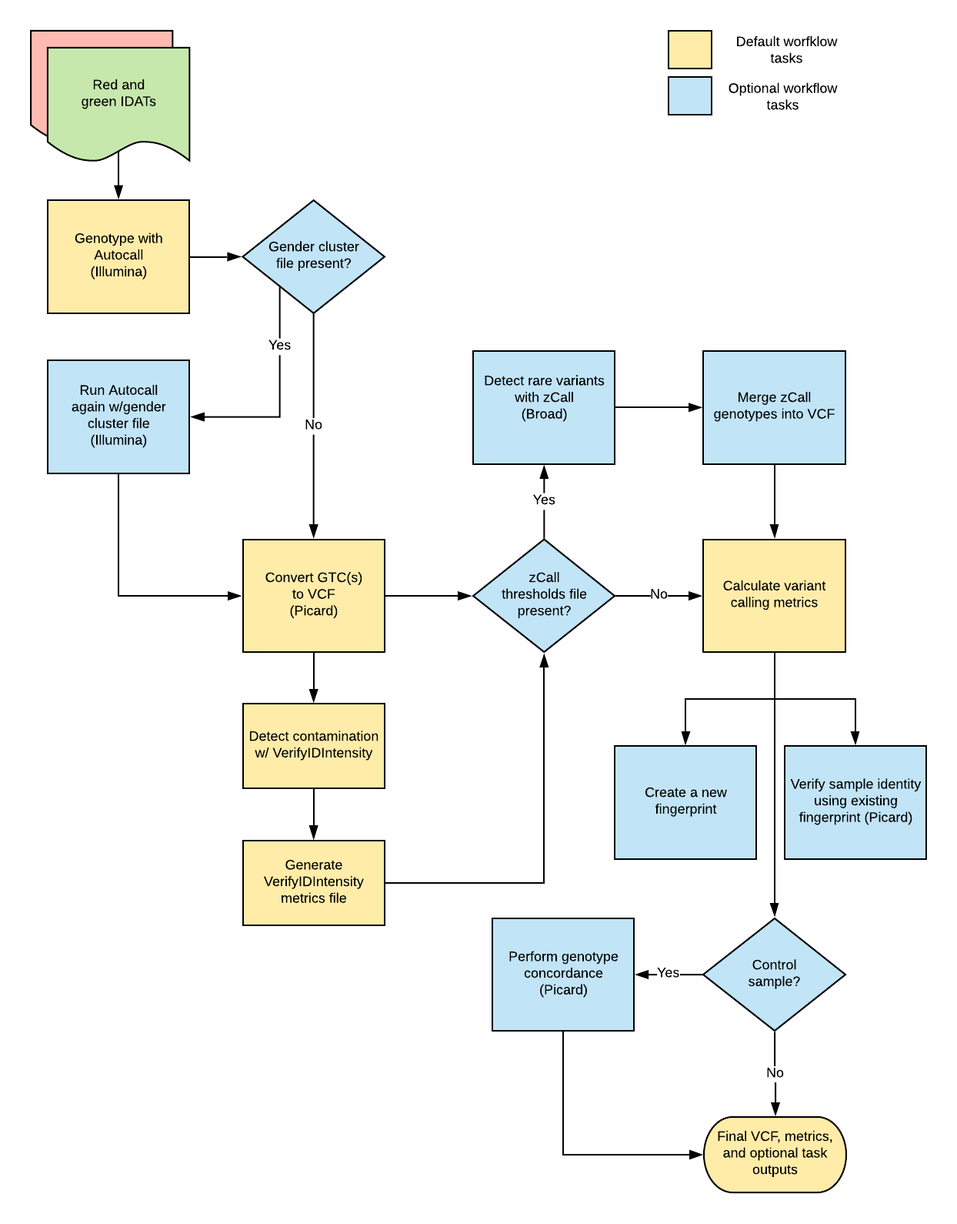
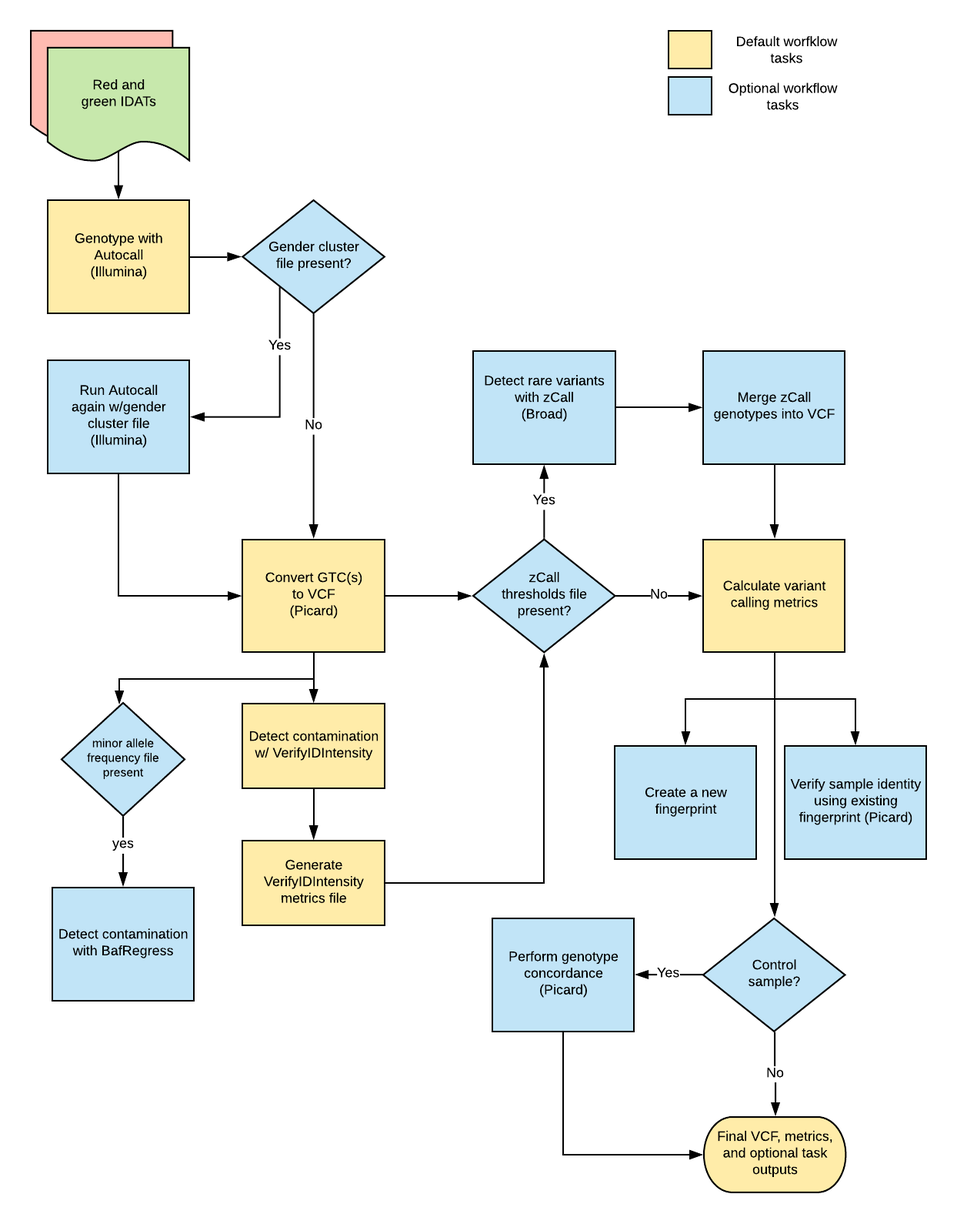
Updated Illumina Genotyping Arrays Overview and diagram

Changed region(s): [[0.0305, 0.5547, 0.2138, 0.8321]]

diff --git a/website/docs/Pipelines/Illumina_Genotyping_Arrays_Pipeline/IlluminaGenotypingArray.documentation.md b/website/docs/Pipelines/Illumina_Genotyping_Arrays_Pipeline/IlluminaGenotypingArray.documentation.md
@@ -6,86 +6,97 @@ sidebar_position: 1
 
 | Pipeline Version | Date Updated | Documentation Author | Questions or Feedback |
 | :----: | :---: | :----: | :--------------: |
-| [Version 1.11.0](https://github.com/broadinstitute/warp/releases) | May 1, 2021 | [Elizabeth Kiernan](mailto:ekiernan@broadinstitute.org) | Please file GitHub issues in warp or contact [Kylee Degatano](mailto:kdegatano@broadinstitute.org) |
+| [Version 1.11.6](https://github.com/broadinstitute/warp/releases) | October, 2021 | [Elizabeth Kiernan](mailto:ekiernan@broadinstitute.org) | Please file GitHub issues in warp or contact [Kylee Degatano](mailto:kdegatano@broadinstitute.org) |
 
 ![The Illumina Genotyping Array Pipeline](./IlluminaGenotyping.png)
 
 
-## Introduction to the Illumina Genotyping Array Pipeline
+## Introduction to the Illumina Genotyping Array pipeline
 
-The Illumina Genotyping Array Pipeline was developed by the Broad DSDE Pipelines team to process Illumina genotyping array data in the form of IDAT files. Overall, the pipeline performs gender-specific genotyping, sample contamination detection, and summary metric collection. It optionally performs rare variant calling and genotype concordance, creates a fingerprint VCF that can be used for sample verification in parallel processes, and evaluates an existing sample fingerprint to confirm sample identity. The pipeline outputs annotated [VCFs](./Illumina_genotyping_array_spec), index files, and summary metrics.
+The Illumina Genotyping Array pipeline was developed by the Broad Pipelines team to process Illumina genotyping array data in the form of IDAT files. Overall, the pipeline performs gender-specific genotyping, sample contamination detection, and summary metric collection. It optionally performs rare variant calling and genotype concordance, creates a fingerprint VCF that can be used for sample verification in parallel processes, and evaluates an existing sample fingerprint to confirm sample identity. The pipeline outputs annotated [VCFs](./Illumina_genotyping_array_spec), index files, and summary metrics.
 
 ## Set-up
 
-### Workflow Installation and Requirements
+### Workflow installation and requirements
 
-The Illumina Genotyping Array workflow is written in the Workflow Description Language [WDL](https://openwdl.org/) and can be downloaded by cloning the GitHub repository [warp](https://github.com/broadinstitute/warp/tree/develop/pipelines/broad/genotyping/illumina). The workflow can be deployed using [Cromwell](https://cromwell.readthedocs.io/en/develop/), a GA4GH compliant, flexible workflow management system that supports multiple computing platforms. For the latest workflow version and release notes, please see the Illumina Genotyping Array changelog [IlluminaGenotypingArray.changelog.md](https://github.com/broadinstitute/warp/blob/develop/pipelines/broad/genotyping/illumina/IlluminaGenotypingArray.changelog.md). For beta updates, you can also view release notes tagged with "IlluminaGenotypingArray_develop" [here](https://github.com/broadinstitute/warp/releases).
+The Illumina Genotyping Array workflow is written in the Workflow Description Language [WDL](https://openwdl.org/) and can be deployed using [Cromwell](https://cromwell.readthedocs.io/en/develop/), a GA4GH compliant, flexible workflow management system that supports multiple computing platforms. 
+
+For the latest workflow version and release notes, please see the Illumina Genotyping Array changelog [IlluminaGenotypingArray.changelog.md](https://github.com/broadinstitute/warp/blob/develop/pipelines/broad/genotyping/illumina/IlluminaGenotypingArray.changelog.md). 
+
+The latest release of the workflow, example data, and dependencies are available from the WARP [releases page](https://github.com/broadinstitute/warp/releases). To discover and search releases, use the WARP command-line tool [Wreleaser](https://github.com/broadinstitute/warp/tree/develop/wreleaser).
+
 
 ### Inputs
 
-The workflow requires that each input is specified in a JSON file. All sample and reference files should be stored in cloud storage, such as a Google Bucket, and the path to the file location should be specified in the JSON. Some tasks, such as rare variant calling, fingerprinting, and genotype concordance, are optional. An example of all workflow inputs (both required and optional) can be found in the [example.json](https://github.com/broadinstitute/warp/blob/develop/pipelines/broad/genotyping/illumina/example.json) file. The tables below describe the required inputs and their formats. When applicable, the inputs for the workflow tasks listed below are marked as required or optional.
+The workflow requires that each input is specified in a JSON file. All sample and reference files should be stored in cloud storage, such as a Google Bucket, and the path to the file location should be specified in the JSON. 
 
-#### Sample Data Inputs
+Some tasks, such as rare variant calling, fingerprinting, and genotype concordance, are optional. 
+
+An example of all workflow inputs (both required and optional) can be found in the [example.json](https://github.com/broadinstitute/warp/blob/develop/pipelines/broad/genotyping/illumina/example.json) file. The tables below describe the workflow inputs, their formats, and whether they are required or optional. 
+
+#### Sample data inputs
 
 | Input name | Description | Input format |
 | --- | --- | --- |
-| chip_well_barcode | Unique identifier of the array chip section on which sample was run. Can be a concatenation of chip barcode and sample coordinates (Ex: 7991775143_R01C01). This is a prefix for output files | String |
-| sample_alias | Name of sample run on barcode-specific chip segment | String |
-| red_idat_cloud_path | Cloud path to the red IDAT file | String |
-| green_idat_cloud_path | Cloud path to the green IDAT file | String |
-| reported_gender | Reported sample sex/gender | String |
+| chip_well_barcode | Unique identifier of the array chip section on which sample was run. Can be a concatenation of chip barcode and sample coordinates (Ex: 7991775143_R01C01). This is a prefix for output files. | String |
+| sample_alias | Name of sample run on barcode-specific chip segment. | String |
+| red_idat_cloud_path | Cloud path to the red IDAT file. | String |
+| green_idat_cloud_path | Cloud path to the green IDAT file. | String |
+| reported_gender | Reported sample sex/gender. | String |
 
-#### Chip Metadata Inputs
-| Input name | Description | Required or Optional | Input format |
+#### Chip metadata inputs
+| Input name | Description | Required or optional | Input format |
 | --- | --- | --- | --- |
-| bead_pool_manifest_file | Cloud path to the Illumina array-specific bead pool manifest (bpm file) | Required | String |
-| extended_chip_manifest_file | Cloud path to an [extended CSV-formatted Illumina array-specific chip manifest](https://gatk.broadinstitute.org/hc/en-us/articles/360037431851-GtcToVcf-Picard-#--EXTENDED_ILLUMINA_MANIFEST) | Required | String |
-| cluster_file | Cloud path to the Illumina array-specific cluster EGT file | Required | String |
-| gender_cluster_file | Cloud path to the Illumina array-specific gender cluster EGT file | Optional | String |
-| zcall_thresholds_file | Cloud path to a thresholds file to be used with the rare variant calling tool [zCall](https://www.ncbi.nlm.nih.gov/pmc/articles/PMC3463112/) | Optional | String |
+| bead_pool_manifest_file | Cloud path to the Illumina array-specific bead pool manifest (bpm file). | Required | String |
+| chip_type | Hardcoded string used to name output files from the BpmToNormalizationManifestCsv task; uses the file basename of the bead_pool_manifest file and adds “.bpm” to the filename. | Required | String |
+| extended_chip_manifest_file | Cloud path to an [extended CSV-formatted Illumina array-specific chip manifest](https://gatk.broadinstitute.org/hc/en-us/articles/360037431851-GtcToVcf-Picard-#--EXTENDED_ILLUMINA_MANIFEST). | Required | String |
+| cluster_file | Cloud path to the Illumina array-specific cluster EGT file. | Required | String |
+| gender_cluster_file | Cloud path to the Illumina array-specific gender cluster EGT file. | Optional | String |
+| zcall_thresholds_file | Cloud path to a thresholds file to be used with the rare variant calling tool [zCall](https://www.ncbi.nlm.nih.gov/pmc/articles/PMC3463112/). | Optional | String |
 
 
-#### Reference Data Inputs
-| Input name | Description | Required or Optional | Input format |
+#### Reference data inputs
+| Input name | Description | Required or optional | Input format |
 | --- | --- | --- | --- |
-| ref_fasta | Cloud path to the reference FASTA (only validated for [Hg19](https://storage.cloud.google.com/gcp-public-data--broad-references/hg19/v0/Homo_sapiens_assembly19.fasta)) | Required | String |
-| ref_fasta_index | Cloud path to the reference FASTA index file | Required | String |
-| ref_dict | Cloud path to the reference FASTA dictionary file | Required | String |
-| dbSNP_vcf | Cloud path to the dbSNP VCF, used for metrics collection | Required | String |
-| dbSNP_vcf_index | Cloud path of the dbSNP VCF index file | Required | String |
+| ref_fasta | Cloud path to the reference FASTA (only validated for [Hg19](https://storage.cloud.google.com/gcp-public-data--broad-references/hg19/v0/Homo_sapiens_assembly19.fasta)). | Required | String |
+| ref_fasta_index | Cloud path to the reference FASTA index file. | Required | String |
+| ref_dict | Cloud path to the reference FASTA dictionary file. | Required | String |
+| dbSNP_vcf | Cloud path to the dbSNP VCF, used for metrics collection. | Required | String |
+| dbSNP_vcf_index | Cloud path of the dbSNP VCF index file. | Required | String |
 
 
-#### Fingerprinting Inputs
+#### Fingerprinting inputs
 
-| Input name | Description | Required or Optional | Input format |
+| Input name | Description | Required or optional | Input format |
 | --- | --- | --- | --- |
-| variant_rsids_file | Cloud path to file containing the rsids list for fingerprint sites (used for creating a new fingerprint VCF) | Optional | String |
-| fingerprint_genotypes_vcf_file | Cloud path to a 'fingerprint' VCF (containing a set of genotypes - typically generated on an orthogonal genotyping platform). Used to confirm sample identity | Optional | String |
-| fingerprint_genotypes_vcf_index_file | Cloud path to 'fingerprint' VCF index file. Used to confirm sample identity | Optional | String |
-| haplotype_database_file | Cloud path to a file containing the haplotype block information for the 'fingerprint' VCF sites. Used to confirm sample identity | Optional | String |
+| variant_rsids_file | Cloud path to file containing the rsids list for fingerprint sites (used for creating a new fingerprint VCF). | Optional | String |
+| fingerprint_genotypes_vcf_file | Cloud path to a 'fingerprint' VCF (containing a set of genotypes - typically generated on an orthogonal genotyping platform). Used to confirm sample identity. | Optional | String |
+| fingerprint_genotypes_vcf_index_file | Cloud path to 'fingerprint' VCF index file. Used to confirm sample identity. | Optional | String |
+| haplotype_database_file | Cloud path to a file containing the haplotype block information for the 'fingerprint' VCF sites. Used to confirm sample identity. | Optional | String |
 
 
 
-#### Genotype Concordance Inputs
-| Input name | Description | Required or Optional | Input format |
+#### Genotype concordance inputs
+| Input name | Description | Required or optional | Input format |
 | --- | --- | --- | --- |
-| control_sample_vcf_file | Cloud path to a VCF containing the genotypes from a control sample | Optional | String |
-| control_sample_vcf_index_file | Cloud path to the control sample VCF index file | Optional | String |
-| control_sample_intervals_file | Cloud path to the interval list for the control sample VCF | Optional | String |
-| control_sample_name | Name of the control sample listed in the control_sample_vcf_file | Optional | String |
-| genotype_concordance_threshold | Minimal numeric value for sample to have a passing genotype concordance | Optional | Value |
+| control_sample_vcf_file | Cloud path to a VCF containing the genotypes from a control sample. | Optional | String |
+| control_sample_vcf_index_file | Cloud path to the control sample VCF index file. | Optional | String |
+| control_sample_intervals_file | Cloud path to the interval list for the control sample VCF. | Optional | String |
+| control_sample_name | Name of the control sample listed in the control_sample_vcf_file. | Optional | String |
+| genotype_concordance_threshold | Minimal numeric value for sample to have a passing genotype concordance. Default is hardcoded in the workflow to 0.95. | Optional | Value |
 
-#### Additional Inputs
+#### Additional inputs
 
-| Input name | Description | Required or Optional | Input format |
+| Input name | Description | Required or optional | Input format |
 | --- | --- | --- | --- |
-| call_rate_threshold | Minimal numeric value for a sample to have a passing call rate | Required | Value |
-| minor_allele_frequency_file | Cloud path to a chip-specific text file containing locus-id to minor allele frequency | Optional | String |
-| contamination_controls_vcf | Cloud path to a VCF of samples run on this chip type to be used to supplement contamination calling | Optional | String |
-| subsampled_metrics_interval_list | Cloud path to a file containing a subset of sites for which the workflow generate metrics and outputs a VCF | Optional | String |
-| disk_size | Default disk (in GiB) for this workflow's cloud VMs | Required | Value |
-| premptible_tries | Number of times a task may be preempted by GCE before it is submitted to a non-preemptible VM | Required | Value |
-| analysis_version_number | Numeric value used to track number of pipeline runs on chip_well_barcode | Required | Value |
+| autocall_version | The version of autocall used for the autocall task. This is hardcoded to “3.0.0”. | Required | String |
+| call_rate_threshold | Minimal numeric value for a sample to have a passing call rate. | Required | Value |
+| minor_allele_frequency_file | Cloud path to a chip-specific text file containing locus-id to minor allele frequency. | Optional | String |
+| contamination_controls_vcf | Cloud path to a VCF of samples run on this chip type to be used to supplement contamination calling. | Optional | String |
+| subsampled_metrics_interval_list | Cloud path to a file containing a subset of sites for which the workflow generates metrics and outputs a VCF. | Optional | String |
+| disk_size | Default disk (in GiB) for this workflow's cloud VMs. | Required | Value |
+| premptible_tries | Number of times a task may be preempted by GCE before it is submitted to a non-preemptible VM. | Required | Value |
+| analysis_version_number | Numeric value used to track the number of pipeline runs on the chip_well_barcode. | Required | Value |
 
 
 ## Workflow Tools and Tasks
@@ -94,7 +105,7 @@ The Illumina Genotyping Array workflow imports a series of tasks from the [Illum
 
 ### Tools
 
-The following table provides a summary of the tasks and tools called by the Illumina Array Genotyping workflow. Note that sometimes a task and tool have the same name. The task refers to the task listed in the [IlluminaGenotypingArrayTasks.wdl](https://github.com/broadinstitute/master/blob/develop/tasks/broad/IlluminaGenotypingArrayTasks.wdl).
+The following table provides a summary of the WDL tasks and software tools called by the Illumina Array Genotyping workflow. Note that sometimes a task and tool have the same name. The task refers to the task listed in the [IlluminaGenotypingArrayTasks.wdl](https://github.com/broadinstitute/master/blob/develop/tasks/broad/IlluminaGenotypingArrayTasks.wdl).
 
 | Task | Tool | Source |
 | --- | --- | --- |
@@ -115,7 +126,7 @@ The following table provides a summary of the tasks and tools called by the Illu
 | GenotypeConcordance | [GenotypeConcordance](https://gatk.broadinstitute.org/hc/en-us/articles/360036348932) | Picard |
 
 
-### Task Summary
+### Task summary
 
 Overall, the workflow imports the ["IlluminaGenotypingArrayTasks.wdl"](https://github.com/broadinstitute/warp/blob/develop/tasks/broad/IlluminaGenotypingArrayTasks.wdl) task to:
 
@@ -127,7 +138,7 @@ Overall, the workflow imports the ["IlluminaGenotypingArrayTasks.wdl"](https://g
 6. Evaluate an existing fingerprint (optional)
 7. Evaluate genotype concordance with a control sample (optional)
 
-#### 1. Genotype Calling
+#### 1. Genotype calling
 
 Illumina BeadChip Genotyping technology demarcates small-nucleotide variants (and polymorphisms- SNPs) present on an individual's alleles by labeling them with red and green fluorescent signals. These signals are quantified and stored in red and green IDAT files, which the Illumina Genotyping Array workflow can use to call genotypes. To do this, the workflow requires the Illumina array-specific chip well barcode, an Illumina bead pool manifest file containing a list of all SNPs on the BeadChip, and an Illumina cluster file containing the fluorescent signal intensity cut-offs for a given genotype. These are used as inputs for the workflow's Autocall task, which executes the [iaap- gencall tool](https://support.illumina.com/downloads/iaap-genotyping-cli.html), a command-line implementation of the Illumina genotyping software GenCall. This tool normalizes each SNP's red and green fluorescent signals and then clusters each SNP into one of the three genotype possibilities (i.e. homozygous A, homozygous B, or heterozygous- A/B). The overall task generates a genotype call file (GTC) as output. If the GTC file is empty, the workflow will end.
 
@@ -137,21 +148,21 @@ If a gender_cluster_file is listed in the input JSON, the Illumina Genotyping wo
 
 After genotyping, the workflow calls the GtcToVcf task, which runs the Picard tool [GtcToVcf](https://software.broadinstitute.org/gatk/documentation/tooldocs/current/picard_arrays_GtcToVcf.php) to convert the GTC into a VCF.
 
-#### 2. Contamination Detection
+#### 2. Contamination detection
 
 Intra-species DNA contamination is a common problem for genotyping samples.
 
-The Illumina Array workflow uses two tools to detect contamination.  These are BafRegress and VerifyIDIntensity.  The use of VerifyIDIntensity is deprecated as it can overestimate estimated contamination when used in single-sample mode (as it is run typically)
+The Illumina Array workflow historically uses two tools to detect contamination: BafRegress and VerifyIDIntensity. However, the use of VerifyIDIntensity is deprecated as it can overestimate estimated contamination when used in single-sample mode (as it is run typically)
 
-[BafRegress](https://genome.sph.umich.edu/wiki/BAFRegress) is a software that detects and estimates sample contamination using B allele frequency data from Illumina genotyping arrays using a regression model.  It requires a file formatted as an Illumina Final Report.  The workflow takes care of this in the BafRegress task (which contains functionality to both create the Illumina Final Report from the VCF generated by GtcToVcf and then run the BafRegress tool itself.  The output of a BafRegress task is a text file containing the estimated contamination along with associated metrics.
+[BafRegress](https://genome.sph.umich.edu/wiki/BAFRegress) software uses a regression model to detect and estimate sample contamination from the Illumina Genotyping Arrays B allele frequency data. It requires a file formatted as an Illumina Final Report. The software is implemented in the workflow’s BafRegress task which first creates the Illumina Final Report from the VCF generated by GtcToVcf and then runs the BafRegress tool. The output of the BafRegress task is a text file containing the estimated contamination along with associated metrics.
 
 [VerifyIDIntensity](https://www.ncbi.nlm.nih.gov/pmc/articles/PMC3487130/) requires an 'adpc.bin' file (a binary file containing array intensity data that can be used with Illumina software) as input. The workflow first calls the [VcfToAdpc](https://gatk.broadinstitute.org/hc/en-us/articles/360036484712) task to convert the VCF output from  genotype calling into an 'adpc.bin' file.  Next, the [VerifyIDIntensity](https://www.ncbi.nlm.nih.gov/pmc/articles/PMC3487130/) task uses this input file to measure contamination. The [CreateVerifyIDIntensityContaminationMetricsFile](https://gatk.broadinstitute.org/hc/en-us/articles/360047217911) task then converts the VerifyIDIntensity output into a Picard-standard metrics file (chip_well_barcode.verifyidintensity_metrics), suitable for uploading to a metrics database.
 
-#### 3. Rare Variant Calling (Optional)
+#### 3. Rare variant calling (optional)
 
 After running default genotype processing with Autocall, the Illumina Genotyping Array workflow optionally uses the [zCall](https://www.ncbi.nlm.nih.gov/pmc/articles/PMC3463112/) task to improve calls on rare variants. To run this task, the workflow requires a zCall threshold file. If the workflow identifies the file, it will output a PLINK .ped and .map file. The [MergePedIntoVcf](https://gatk.broadinstitute.org/hc/en-us/articles/360037592091) task then merges these outputs into the VCF generated during genotype calling.
 
-#### 4. Metric Collection
+#### 4. Metric collection
 
 Quality metrics can be assessed using the genotyping output VCF (from the GtctoVcf task) or alternatively, a subset of the VCF. The CollectArraysVariantCallingMetrics task calls the Picard tool [CollectArraysVariantCallingMetrics](https://gatk.broadinstitute.org/hc/en-us/articles/360037593871) to generate these metrics.
 
@@ -159,71 +170,76 @@ Quality metrics can be assessed using the genotyping output VCF (from the GtctoV
 If an input interval list is provided (the subsampled_metrics_interval_list file in the sample JSON), the workflow will run the optional task SubsetArrayVCF which uses the GATK tool [SelectVariants](https://gatk.broadinstitute.org/hc/en-us/articles/360036362532) to select variants within the specified interval. The overall workflow will then run the CollectArraysVariantCallingMetrics to generate metrics.
 :::
 
-#### 5. Creating a New Fingerprint Output (Optional)
+#### 5. Creating a new fingerprint output (optional)
 
 DNA fingerprinting helps maintain sample identity and avoid sample swaps. The Illumina Genotyping Array workflow can optionally create a new fingerprint VCF output that can be used to verify sample identity if the sample is used for additional applications (downstream sequencing, etc.). To do this, the SelectFingerprintVariants task uses a reference SNP identifier file (rsid) to run the GATK tool [SelectVariants](https://gatk.broadinstitute.org/hc/en-us/articles/360036362532). This tool selects variants in the genotyping output VCF based on the variants present in the rsids file. The task then outputs a new subsetted fingerprint VCF and index file.
 
-#### 6. Evaluating an Existing Fingerprint (Optional)
+#### 6. Evaluating an existing fingerprint (optional)
 
 If the genotyping sample already has a corresponding fingerprint VCF file, the workflow can also optionally check the existing fingerprint to confirm sample identity. It uses the CheckFingerPrints task to calculate genotype concordance between the workflow’s genotyping output VCF (final_output_vcf) and the known genotype specified in a fingerprint_genotypes_vcf_file. The workflow returns a boolean for if the sample genotype failed concordance, as well as a Logarithm of Odds (LOD) score for concordance.
 
-#### 7. Genotype Concordance (Optional)
+#### 7. Genotype concordance (optional)
 
 If control inputs (VCF, index, and sample_name string) are provided, the workflow can examine genotype concordance. First, the VcfToIntervalList task uses the Picard tool [VcfToIntervalList](https://gatk.broadinstitute.org/hc/en-us/articles/360036897672) to prepare an interval list from the genotype calling output VCF (produced with the [above GtcToVCF task](#1-genotype-calling). Next, the SelectVariantsForGenotypeConcordance task runs the GATK tool [SelectVariants](https://gatk.broadinstitute.org/hc/en-us/articles/360036362532) to exclude filtered sites from the VCF that will be used for GenotypeConcordance. Lastly, the GenotypeConcordance task uses the Picard tool [GenotypeConcordance](https://gatk.broadinstitute.org/hc/en-us/articles/360036348932) to calculate genotype concordance between the workflow’s output VCF and the control VCF.
 
 
-### Workflow Outputs
+### Workflow outputs
 
 The tables below summarize all of the workflow's output according to the task. Outputs from optional tasks are marked as optional. If the workflow output is written to a file, the file format is listed. Otherwise, the file format is listed as N/A. Note that file outputs are named with the chip_well_barcode prefix.
 
 For more information on the VCF output, see the pipeline's [VCF Overview](./Illumina_genotyping_array_spec).
 
-#### Genotype Calling and Metric Outputs
+#### Genotype calling and metric outputs
 
-| Output name | Description | Required or Optional | Output file format |
+| Output name | Description | Required or optional | Output file format |
 | --- | --- | --- | --- |
-| <chip_well_barcode>.vcf.gz | VCF generated by the pipeline | Required | Compressed VCF (vcf.gz) |
-| <chip_well_barcode>.vcf.gz.tbi | Index file of the VCF generated by the pipeline | Required | tabix index (vcf.gz.tbi) |
-| <chip_well_barcode>.gtc | GTC file generated by Autocall | Required | GTC |
-| <chip_well_barcode>.bafregress_metrics | Text output file generated by BafRegress | Optional | txt |
-| <chip_well_barcode>.verifyidintensity_metrics | File containing metrics generated by VerifyIDIntensity | Required | txt |
-| <chip_well_barcode>.arrays_variant_calling_detail_metrics | Detailed metrics file for the output VCF generated by CollectArraysVariantCallingMetrics.detail_metrics | Required | txt |
-| <chip_well_barcode>.arrays_variant_calling_summary_metrics | Summary metrics file for the output VCF as generated by CollectArraysVariantCallingMetrics | Required | txt |
-| <chip_well_barcode>.arrays_control_code_summary_metrics | Control code metrics file for the output VCF as generated by CollectArraysVariantCallingMetrics | Required | txt |
-| <chip_well_barcode_subset>.arrays_variant_calling_detail_metrics | Detailed metrics file for the subsetted VCF as generated by CollectArraysVariantCallingMetrics| Optional | txt |
-| <chip_well_barcode_subset>.arrays_subset_variant_calling_summary_metrics | Summary metrics file for the subsetted VCF as generated by CollectArraysVariantCallingMetrics | Optional | txt |
-| <chip_well_barcode_subset>.arrays_subset_variant_calling_control_metrics | Control code metrics file for the subsetted VCF as generated by CollectArraysVariantCallingMetrics | Optional | txt |
+| chip_well_barcode_output | String that matches the chip_well_barcode input variable. | Required | String |
+| <chip_well_barcode>.vcf.gz | VCF generated by the pipeline. | Required | Compressed VCF (vcf.gz) |
+| <chip_well_barcode>.vcf.gz.tbi | Index file of the VCF generated by the pipeline. | Required | tabix index (vcf.gz.tbi) |
+| <chip_well_barcode>.gtc | GTC file generated by Autocall. | Required | GTC |
+| <chip_well_barcode>.bafregress_metrics | Text output file generated by BafRegress. | Optional | TXT |
+| <chip_well_barcode>.verifyidintensity_metrics | File containing metrics generated by VerifyIDIntensity. | Required | TXT |
+| <chip_well_barcode>.arrays_variant_calling_detail_metrics | Detailed metrics file for the output VCF generated by CollectArraysVariantCallingMetrics.detail_metrics. | Required | TXT |
+| <chip_well_barcode>.arrays_variant_calling_summary_metrics | Summary metrics file for the output VCF as generated by CollectArraysVariantCallingMetrics. | Required | TXT |
+| <chip_well_barcode>.arrays_control_code_summary_metrics | Control code metrics file for the output VCF as generated by CollectArraysVariantCallingMetrics. | Required | TXT |
+| <chip_well_barcode_subset>.arrays_variant_calling_detail_metrics | Detailed metrics file for the subsetted VCF as generated by CollectArraysVariantCallingMetrics. | Optional | TXT |
+| <chip_well_barcode_subset>.arrays_subset_variant_calling_summary_metrics | Summary metrics file for the subsetted VCF as generated by CollectArraysVariantCallingMetrics. | Optional | TXT |
+| <chip_well_barcode_subset>.arrays_subset_variant_calling_control_metrics | Control code metrics file for the subsetted VCF as generated by CollectArraysVariantCallingMetrics. | Optional | TXT |
+| analysis_version_number_output | Numeric value used to track the number of pipeline runs on the chip_well_barcode; same value as the analysis_version_number input. | Required | Value |
+| <chip_well_barcode>.results.txt | Bafregress results file. | Optional |TXT | 
+ 
 
 
-#### Fingerprinting Outputs
+#### Fingerprinting outputs
 
-| Output name | Description | Required or Optional | Output file format |
+| Output name | Description | Required or optional | Output file format |
 | --- | --- | --- | --- |
-| <chip_well_barcode>.fingerprint.vcf.gz | VCF containing genotypes selected from the output_vcf at certain designated sites | Optional | Compressed VCF (vcf.gz) |
-| <chip_well_barcode>.fingerprint.vcf.gz.tbi | Index file of the output_fingerprint_vcf | Optional | tabix index (vcf.gz.tbi) |
-| check_fingerprint_lod | LOD score as calculated by CheckFingerprint between the pipeline output VCF and the optionally specified input fingerprint VCF | Optional | N/A |
-| <chip_well_barcode>.fingerprinting_summary_metrics | Summary metrics as calculated by CheckFingerprint between the pipeline output VCF and the optionally specified input fingerprint VCF | Optional | txt |
-| <chip_well_barcode>.fingerprinting_detail_metrics | Detail metrics as calculated by CheckFingerprint between the pipeline output VCF and the optionally specified input fingerprint VCF | Optional | txt |
+| <chip_well_barcode>.fingerprint.vcf.gz | VCF containing genotypes selected from the output_vcf at certain designated sites. | Optional | Compressed VCF (vcf.gz) |
+| <chip_well_barcode>.fingerprint.vcf.gz.tbi | Index file of the output_fingerprint_vcf. | Optional | tabix index (vcf.gz.tbi) |
+| check_fingerprint_lod | LOD score as calculated by CheckFingerprint between the pipeline output VCF and the optionally specified input fingerprint VCF. | Optional | N/A |
+| <chip_well_barcode>.fingerprinting_summary_metrics | Summary metrics as calculated by CheckFingerprint between the pipeline output VCF and the optionally specified input fingerprint VCF. | Optional | TXT |
+| <chip_well_barcode>.fingerprinting_detail_metrics | Detail metrics as calculated by CheckFingerprint between the pipeline output VCF and the optionally specified input fingerprint VCF. | Optional | TXT |
 
-#### Genotype Concordance Outputs
+#### Genotype concordance outputs
 
-| Output name | Description | Required or Optional | Output format |
+| Output name | Description | Required or optional | Output format |
 | --- | --- | --- | --- |
-| genotype_concordance_failed | Boolean flag to indicate whether the genotype concordance check between the pipeline output VCF and the optionally specified input control VCF failed | Optional | N/A |
-| <chip_well_barcode>.genotype_concordance_summary_metrics| Summary metrics as calculated by GenotypeConcordance between the pipeline output VCF and the optionally specified control VCF | Optional | txt |
-| <chip_well_barcode>.genotype_concordance_detail_metrics | Detail metrics as calculated by GenotypeConcordance between the pipeline output VCF and the optionally specified control VCF | Optional | txt |
-| <chip_well_barcode>.genotype_concordance_contingency_metrics | Contingency metrics as calculated by GenotypeConcordance between the pipeline output VCF and the optionally specified control VCF | Optional | txt |
+| genotype_concordance_failed | Boolean flag to indicate whether the genotype concordance check between the pipeline output VCF and the optionally specified input control VCF failed. | Optional | N/A |
+| <chip_well_barcode>.genotype_concordance_summary_metrics| Summary metrics as calculated by GenotypeConcordance between the pipeline output VCF and the optionally specified control VCF. | Optional | TXT |
+| <chip_well_barcode>.genotype_concordance_detail_metrics | Detail metrics as calculated by GenotypeConcordance between the pipeline output VCF and the optionally specified control VCF. | Optional | TXT |
+| <chip_well_barcode>.genotype_concordance_contingency_metrics | Contingency metrics as calculated by GenotypeConcordance between the pipeline output VCF and the optionally specified control VCF. | Optional | TXT |
 
 ## Versioning
 
 All Illumina Genotyping Array workflow releases are documented in the [workflow changelog](https://github.com/broadinstitute/warp/blob/develop/pipelines/broad/genotyping/illumina/IlluminaGenotypingArray.changelog.md).
 
-## Try the Pipeline in Terra
+## Try the pipeline in Terra
 
 The Illumina Genotyping Array Pipeline is available on the cloud-based platform [Terra](https://app.terra.bio). If you have a Terra account, you can access the Featured Workspace using this address: `https://app.terra.bio/#workspaces/warp-pipelines/Illumina-Genotyping-Array`. The workspace is preloaded with instructions and sample data. For more information on using the Terra platform, please view the [Support Center](https://support.terra.bio/hc/en-us).
 
-## Feedback and Questions
+## Feedback and questions
 
 Please help us make our tools better by contacting [Kylee Degatano](mailto:kdegatano@broadinstitute.org) for pipeline-related suggestions or questions.
+
 
 
